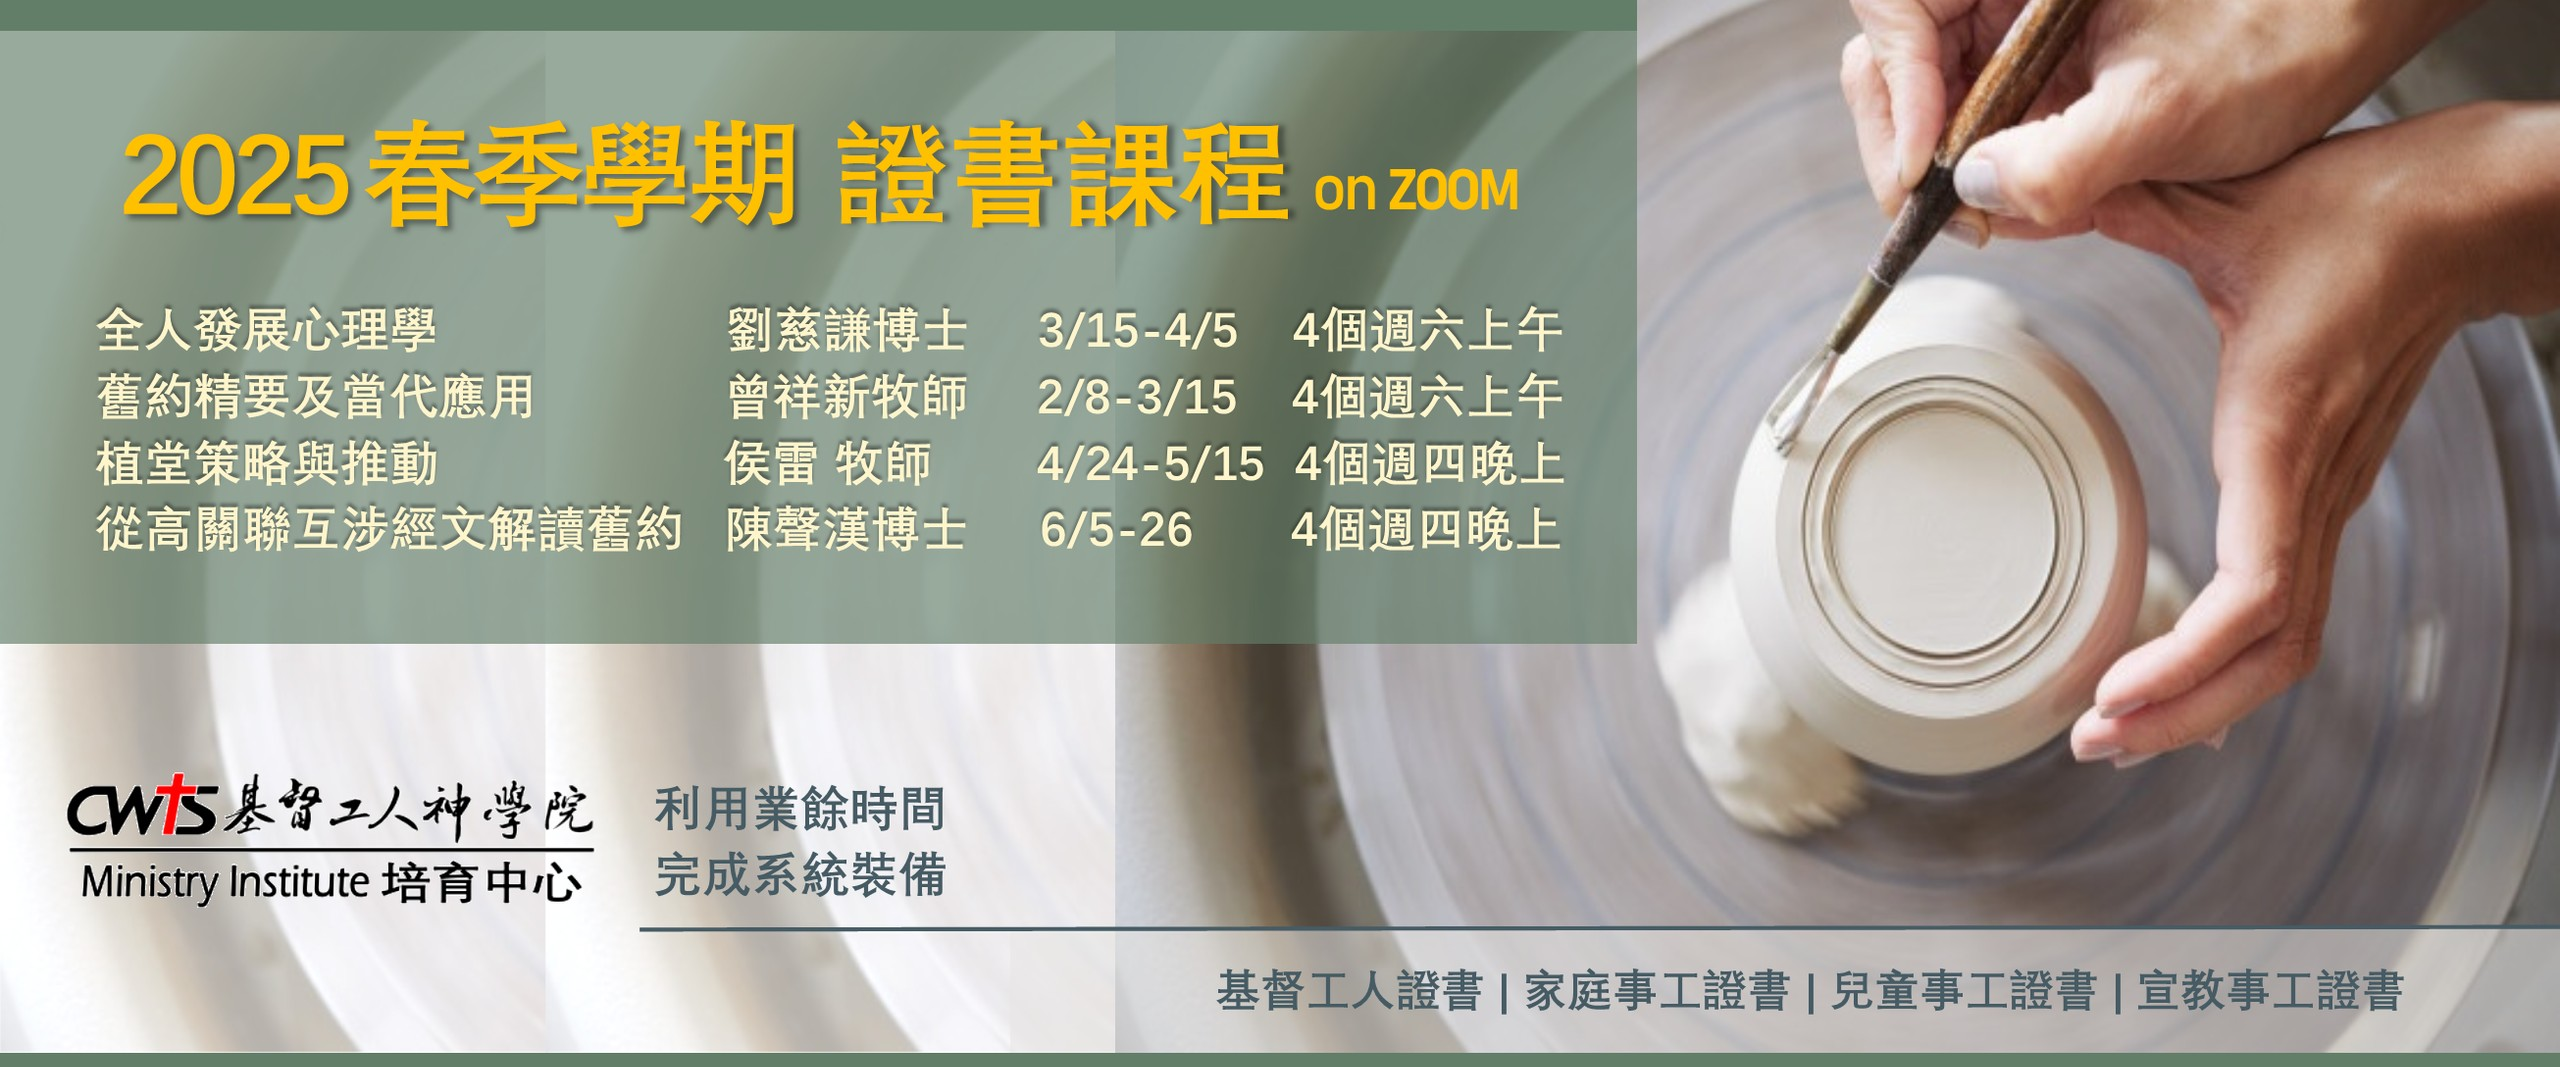
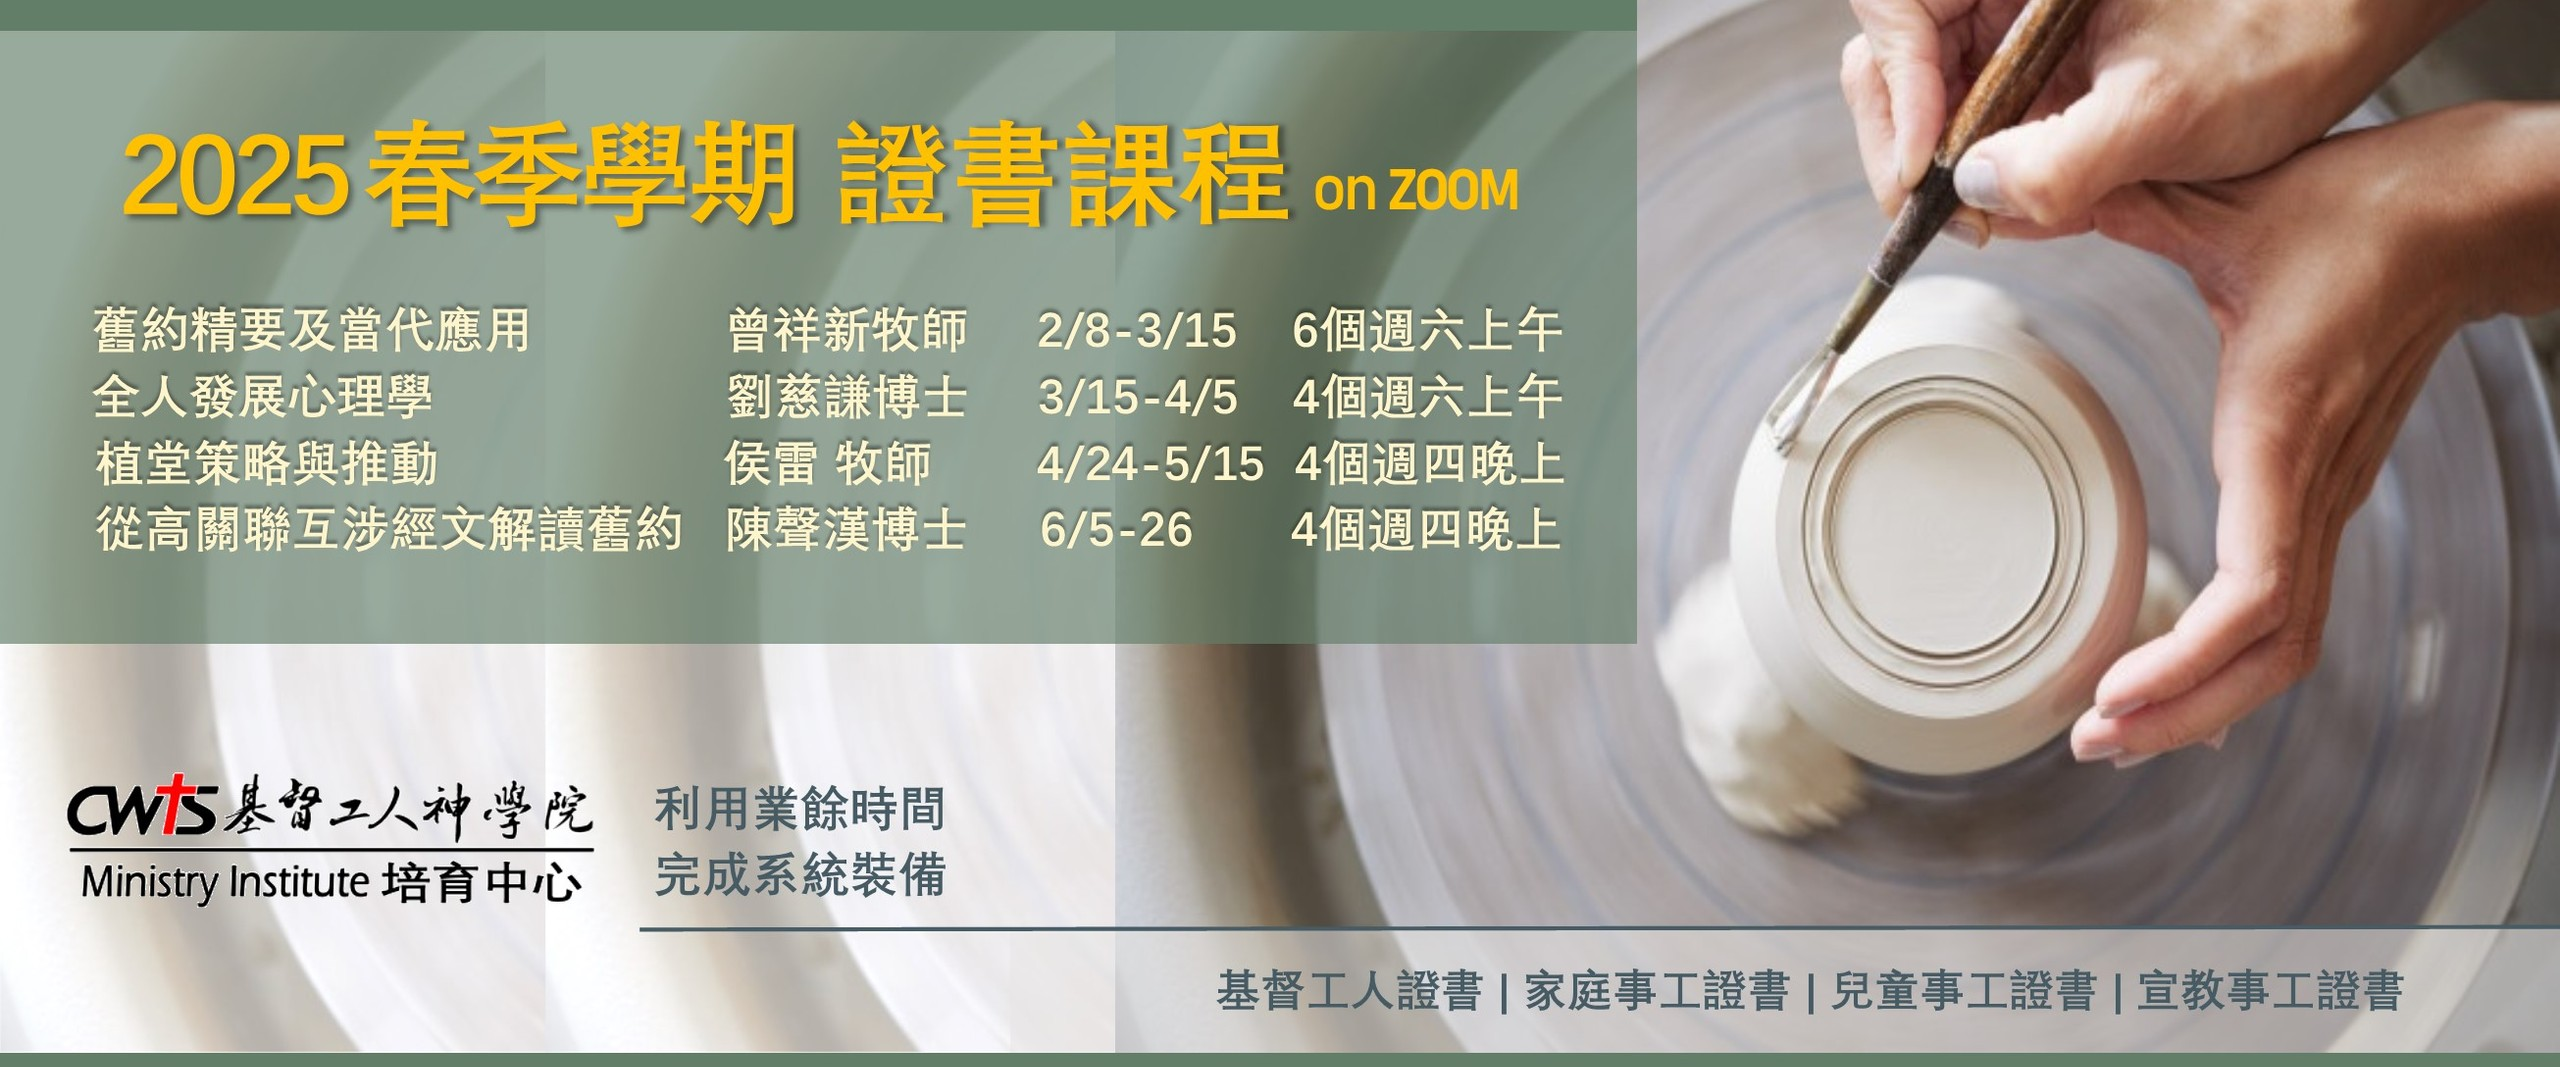
Update carousel and MI course descriptions
1. Update MI-2025 Spring carousel
2. Update MI course descriptions

diff --git a/src/content/pages/zh/ministry-institute/courses.md b/src/content/pages/zh/ministry-institute/courses.md
@@ -60,9 +60,9 @@ thumbnail: "/images/covers/ministry-institute/courses.thumbnail.jpg"
 [點擊報名](https://form.jotform.com/242686550259162)
 
 ### 課程簡介：
-
+本課將從舊約背景看其主要信息及其對現今信徒的意義，由講師以專題的方式教授和學生的參予，分別討論如世界的開始、列祖故事、出埃及與曠野漂流、先知運動與王國興亡、以色列人的被擄、回歸與復興, 以及古以色列人的詩歌與智慧等，讓學員對舊約信息內容有基本的認識，加上其閱讀參攷書籍及對一定專題的研究和寫作，期能有助傳揚聖經的福音真理。
 ### 教師簡介:
-
+曾祥新牧師早年畢業於香港伯特利神學院，後獲福樂神學院道學碩士、 普林斯頓神學院神學碩士、 英國雪菲爾大學哲學博士。曾任職香港一些神學院教席 、香港伯特利教會總幹事、 英國曼徹斯特華人基督教會主任牧師 、 美國基督工人神學院舊約教席與實習及學生事務主任。退休後仍教授一些舊約科目 ，在灣區不同教會証道及在網上作專題講座，著有天道聖經註釋系列之《民數記》及《士師記》，另有天道書樓出版之 《 舊約背景快閱通 》 。 曾牧師與師母蒙神恩典，育有三子女。
 </br>
 
 ## 植堂策略與推動（課程編碼: MP01, 2 學分, ZOOM 授課）
@@ -71,9 +71,11 @@ thumbnail: "/images/covers/ministry-institute/courses.thumbnail.jpg"
 [點擊報名](https://form.jotform.com/242686843106158)
 
 ### 課程簡介：
-
+教會刻意地拓植新的教會，在新的群體和區域內拓展神的國度，是教會自誕生以來得以不斷延續和發展的重要前提。本課程的目標是鼓勵北美華人教會根據其特有的文化環境北京，以及面對時代的更迭變化，領受植堂的異象，發掘自己的植堂潛力，拓植新的教會，實踐大使命。
+本課主要內容包括：了解當代美國教會、特別是北美華人教會的植堂運動曆史，以聖經、曆史和文化處境三個角度來透視植堂；認識近代的經典植堂理論；探討適切于華人教會的植堂策略，設計出具有實踐意義的植堂模式，並將其運用在教會的植堂事工之中。
 ### 教師簡介:
-
+侯雷牧師生於中國遼寧，12歲時與家人一同接受耶穌基督作為個人生命的救主。20歲蒙召就讀神學。在完成神學裝備的同時，也遇到了一生的伴侶張寬師母，畢業後一起同心全職侍奉至今。侯牧師在中國事奉15年，期間曾參與牧養、植堂、教會管理、神學教育和宣教推動等。之後來美繼續神學裝備，獲得基督工人神學院道學碩士及教牧博士，致力研究北美華人教會小型化植堂的策略與實踐。
+侯雷牧師現任山河市宣道會牧師，2020年由母會差派，在疫情期間開始籌劃推動植堂，至今一直帶領及牧養所植立的新泉教會，在Willow Glen地區不斷拓展。
 </br>
 
 ## 從高關聯互涉經文解讀舊約（課程編碼: BO02, 2 學分, ZOOM 授課）

diff --git a/src/content/news/2024-09-09-mi-soulcare-emotions.md b/src/content/news/2024-09-09-mi-soulcare-emotions.md
@@ -7,5 +7,3 @@ url: /zh/ministry-institute/recording/
 
 SoulCare系列講座之\
 情緒與靈命成長
-
-10月24日  掃碼獲取Zoom地址
